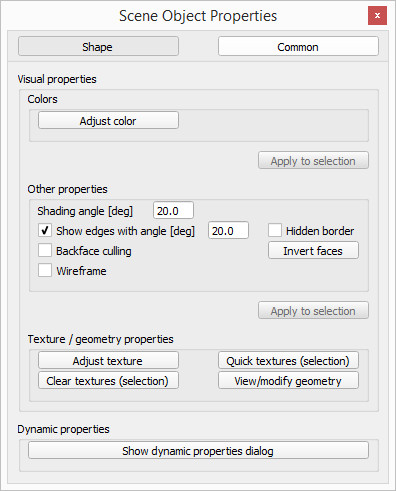
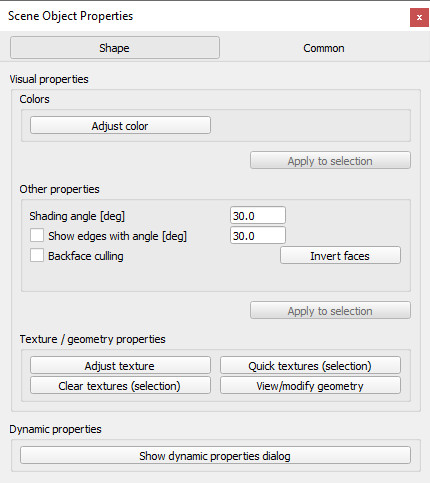
several smaller changes

diff --git a/en/objectParameterIDs.htm b/en/objectParameterIDs.htm
@@ -87,7 +87,7 @@
 <div><strong>sim.visionfloatparam_pov_aperture (1015)</strong>: float parameter : POV-Ray aperture.</div>
 <div><strong>sim.visionintparam_pov_blur_sampled (1016)</strong>: int32 parameter : POV-Ray blur samples.</div>
 <div><strong>sim.visionintparam_render_mode (1017)</strong>: int32 parameter : Render mode. Use with care. 0=normal, 1=aux. channels, 2=object handles, 3=POV-Ray.</div>
-<div><strong>sim.visionintparam_perspective_operation (1018)</strong>: int32 parameter : whether the vision sensor operated in perspective mode (1) or orthogonal mode (0).</div>
+<div><strong>sim.visionintparam_perspective_operation (1018)</strong>: int32 parameter : whether the vision sensor is operated in perspective mode (1) or orthogonal mode (0).</div>
 <br>
 <div>More parameters you wish to adjust from the API? Ask us to add them for a future release!</div>
 </td>
@@ -258,8 +258,8 @@
 <div><strong>sim.camerafloatparam_pov_blur_distance (9005)</strong>: float parameter : POV-Ray focal blur distance.</div>
 <div><strong>sim.camerafloatparam_pov_aperture (9006)</strong>: float parameter : POV-Ray aperture.</div>
 <div><strong>sim.cameraintparam_pov_blur_samples (9007)</strong>: int32 parameter : POV-Ray blur samples.</div>
-<div><strong>sim.visionfloatparam_near_clipping (9008)</strong>: float parameter : near clipping plane</div>
-<div><strong>sim.visionfloatparam_far_clipping (9009)</strong>: float parameter : far clipping plane</div>
+<div><strong>sim.camerafloatparam_near_clipping (9008)</strong>: float parameter : near clipping plane</div>
+<div><strong>sim.camerafloatparam_far_clipping (9009)</strong>: float parameter : far clipping plane</div>
 <br>
 <div>More parameters you wish to adjust from the API? Ask us to add them for a future release!</div>
 </td>

diff --git a/en/shapeProperties.htm b/en/shapeProperties.htm
@@ -41,17 +41,13 @@
 <li><strong>Shading angle</strong>: the shading angle is the angle from which individual faces are distinguished. This only affects the visual appearance of a shape. A small angle makes a shape appear sharp, with many edges, a large angle makes a shape appear smooth and with less edges.<br>
 </li>
 
-<li><strong>Show edges</strong>: displays edges in black. Displayed edges will depend on the specified <strong>angle</strong>. If <strong>Hidden border</strong> is checked, then edges that do not share more than one triangle will be hidden.<br>
+<li><strong>Show edges</strong>: displays edges in black. Displayed edges will depend on the specified <strong>angle</strong>.<br>
 </li>
 
 <li><strong>Backface culling</strong>: each triangle composing a shape has an inside and an outside face. When Backface culling is enabled, then inside faces won't be displayed. This is a useful parameter for closed shapes and for shapes that are transparent. <br>
 </li>
 
 <li><strong>Invert faces</strong>: this flips all triangles. Inside faces become outside faces and vice-versa. Convex shapes will become non-convex, except for pure shapes.<br>
-</li>
-
-
-<li><strong>Wireframe</strong>: if selected, then the shape will always appear as wireframe when seen through a <a href="cameras.htm">camera</a>. <br>
 </li>
 
 

diff --git a/en/versionInfo.htm b/en/versionInfo.htm
@@ -67,6 +67,7 @@ Version history:
 <li>Added a <a href="https://github.com/CoppeliaRobotics/lua/blob/master/matrix.md" target="_blank">CoppeliaSim linear algebra library</a>.</li>
 
 <li>Added a <a href="meansOfCommunication.htm#zmq">ZeroMQ interface plugin</a>.</li>
+<li>Added new conveyor models, allowing to easily create conveyor systems of any size/shape.</li>
 
 <li><a href="regularApi/simGetShapeMassAndInertia.htm">sim.getShapeMassAndInertia</a> and <a href="regularApi/simSetShapeMassAndInertia.htm">sim.setShapeMassAndInertia</a> are deprecated, and replaced by <a href="regularApi/simGetShapeMass.htm">sim.getShapeMass</a>, <a href="regularApi/simSetShapeMass.htm">sim.setShapeMass</a>, <a href="regularApi/simGetShapeInertia.htm">sim.getShapeInertia</a> and <a href="regularApi/simSetShapeInertia.htm">sim.setShapeInertia</a>.</li>
 <li>Added a new demo scene illustrating smooth movement profiles in forward and inverse kinematics mode: <em>kinematics/smoothMovementsInFkAndIk.ttt</em></li>

diff --git a/en/apiConstants.htm b/en/apiConstants.htm
@@ -247,6 +247,11 @@ See also the <a href="regularApi/simGetModelProperty.htm">sim.getModelProperty</
 <div class=tab>we are about to switch to a different scene</div>
 <div class=tab>auxiliaryData[0]: do not use</div>
 <div class=tab>auxiliaryData[1]=next scene unique ID</div>
+
+<div>sim_message_eventcallback_scriptstatedestroyed</div>
+<div class=tab>The specified script state is destroyed</div>
+<div class=tab>auxiliaryData[0]: script handle</div>
+
 <div>sim_message_eventcallback_menuitemselected (called from the UI thread</div>
 <div class=tab>auxiliaryData[0]=handle of the item</div>
 <div class=tab>auxiliaryData[1]=state of the item</div>

diff --git a/en/regularApi/simGetVisionSensorCharImage.htm b/en/regularApi/simGetVisionSensorCharImage.htm
@@ -50,7 +50,7 @@ C return value
 <td class=apiTableLeftLSyn>
 Lua synopsis
 </td> 
-<td class=apiTableRightLSyn>string imageBuffer,int resolutionX,int resolutionY=sim.getVisionSensorCharImage(int sensorHandle,int posX=0,int posY=0,int sizeX=0,int sizeY=0,int rgbaCutOff=0)</td> 
+<td class=apiTableRightLSyn>string imageBuffer,int resolutionX,int resolutionY=sim.getVisionSensorCharImage(int sensorHandle,int posX=0,int posY=0,int sizeX=0,int sizeY=0,float rgbaCutOff=0)</td> 
 </tr> 
 <tr class=apiTableTr> 
 <td class=apiTableLeftLParam>Lua parameters</td> 
